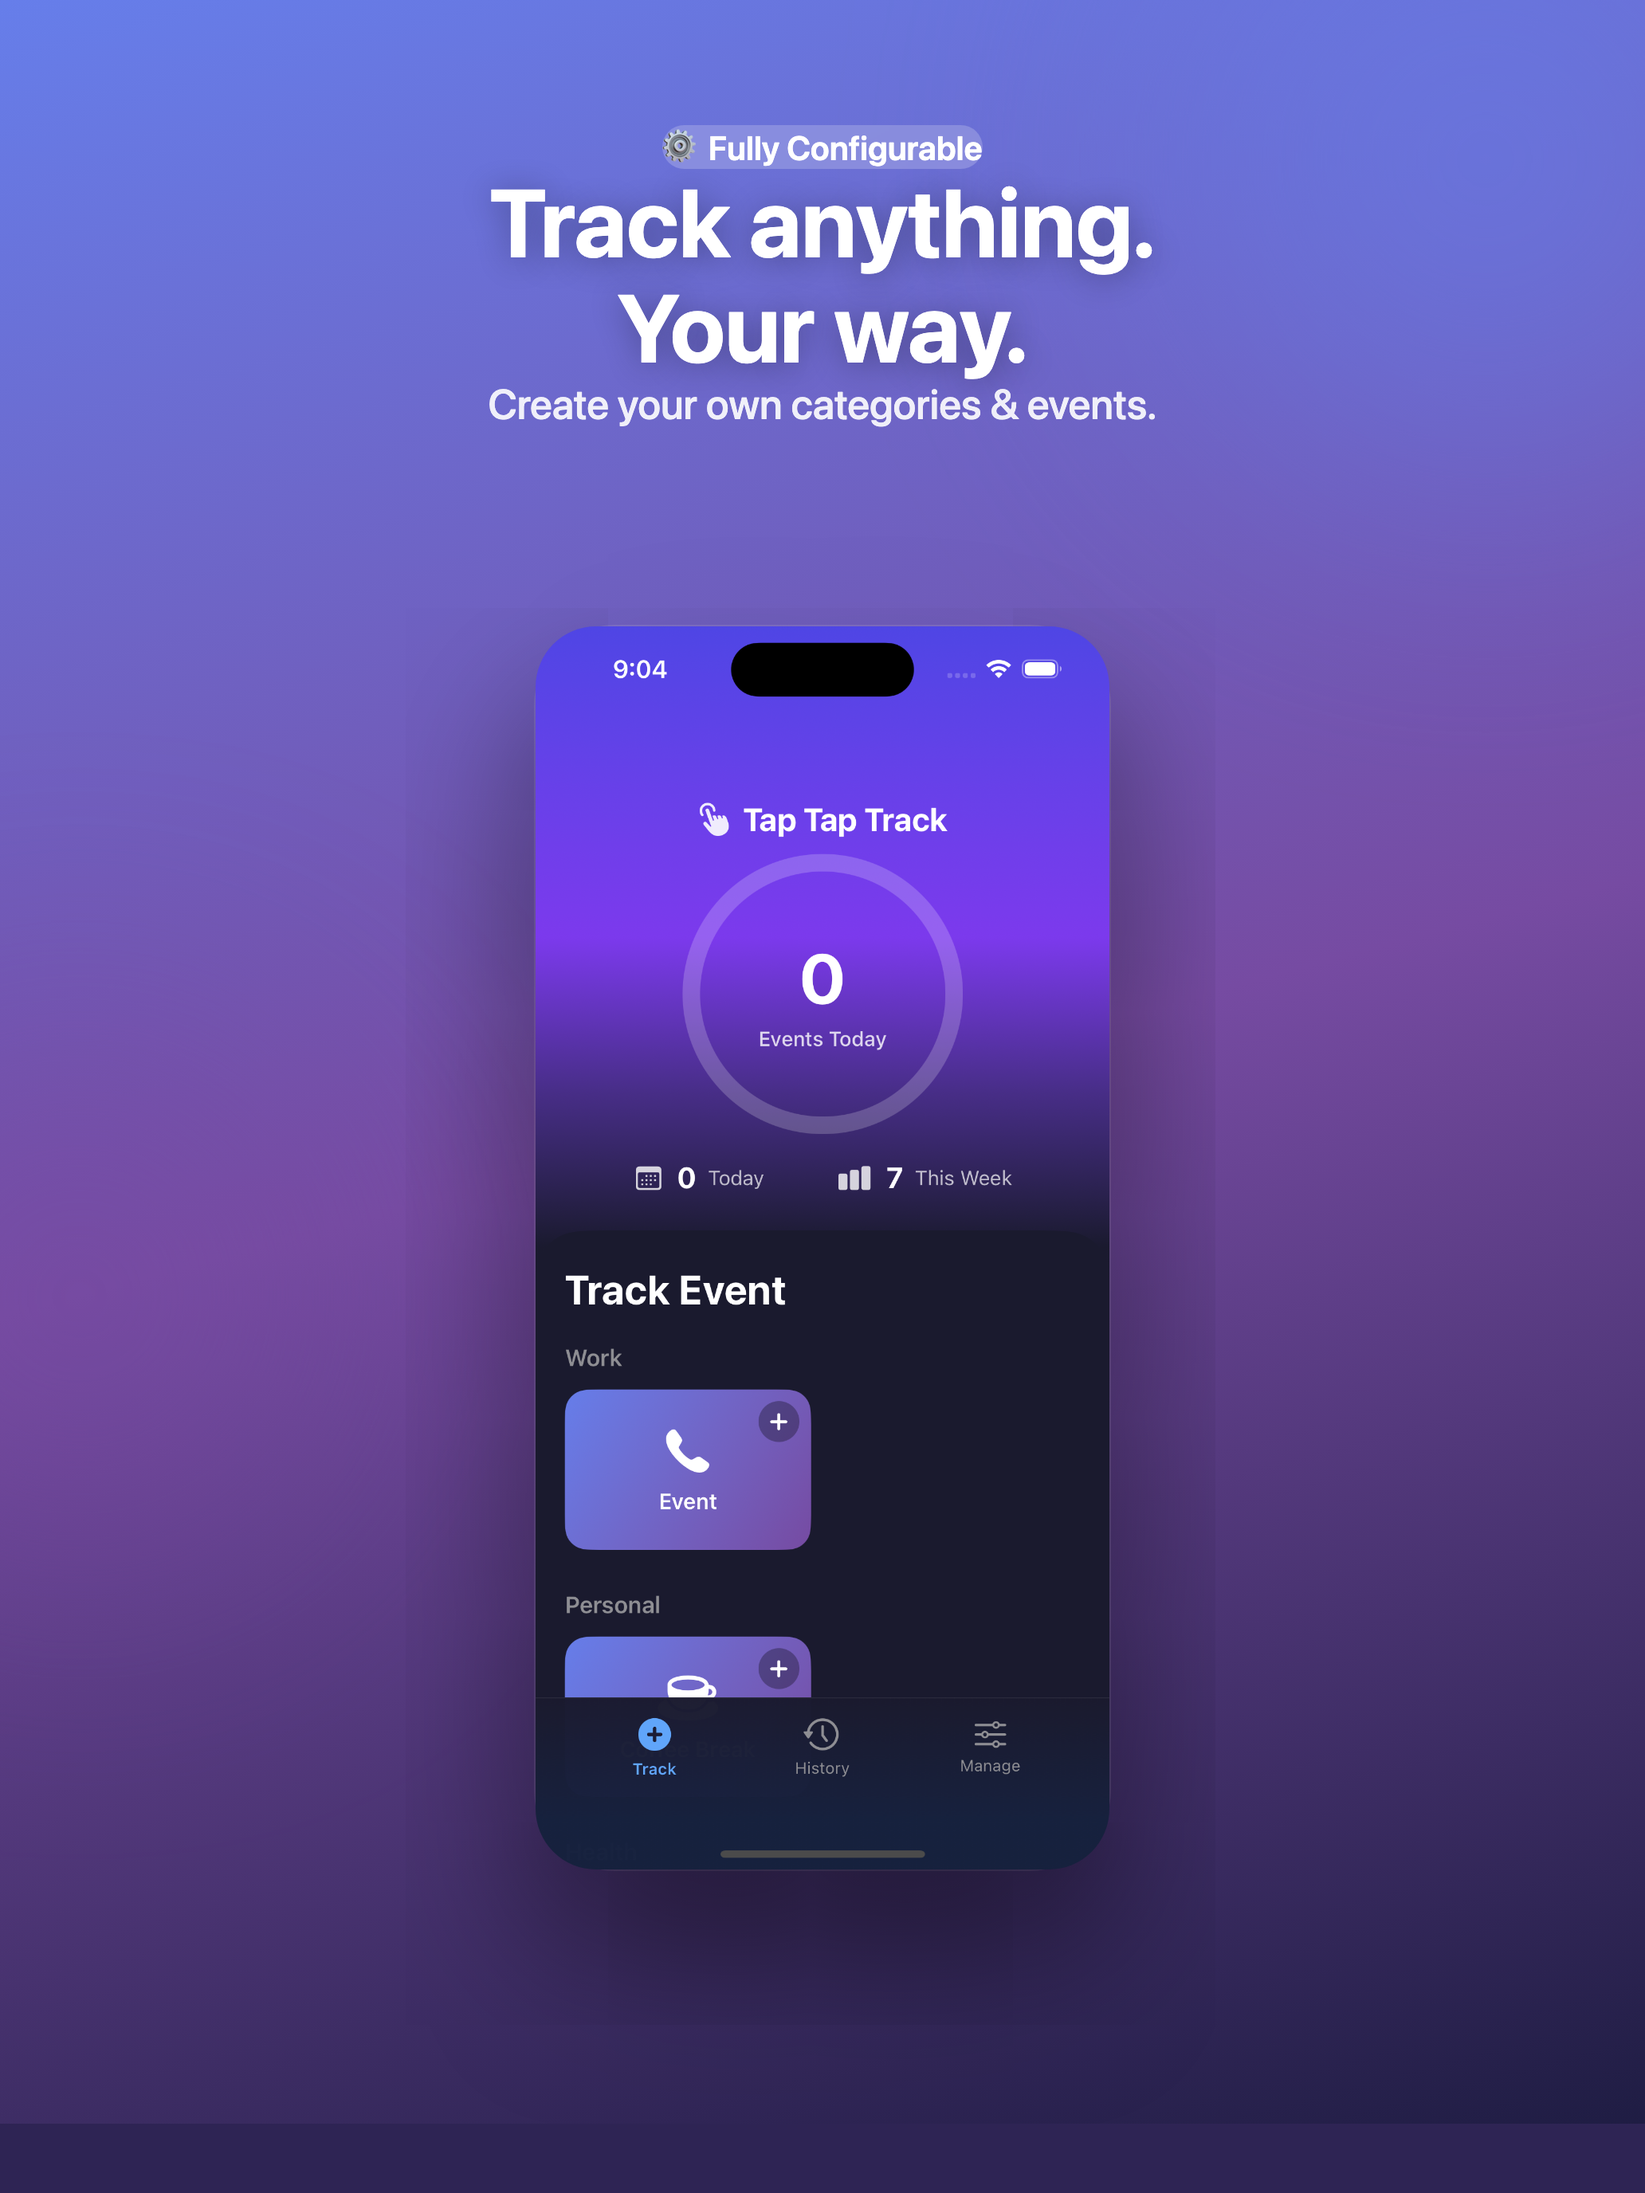
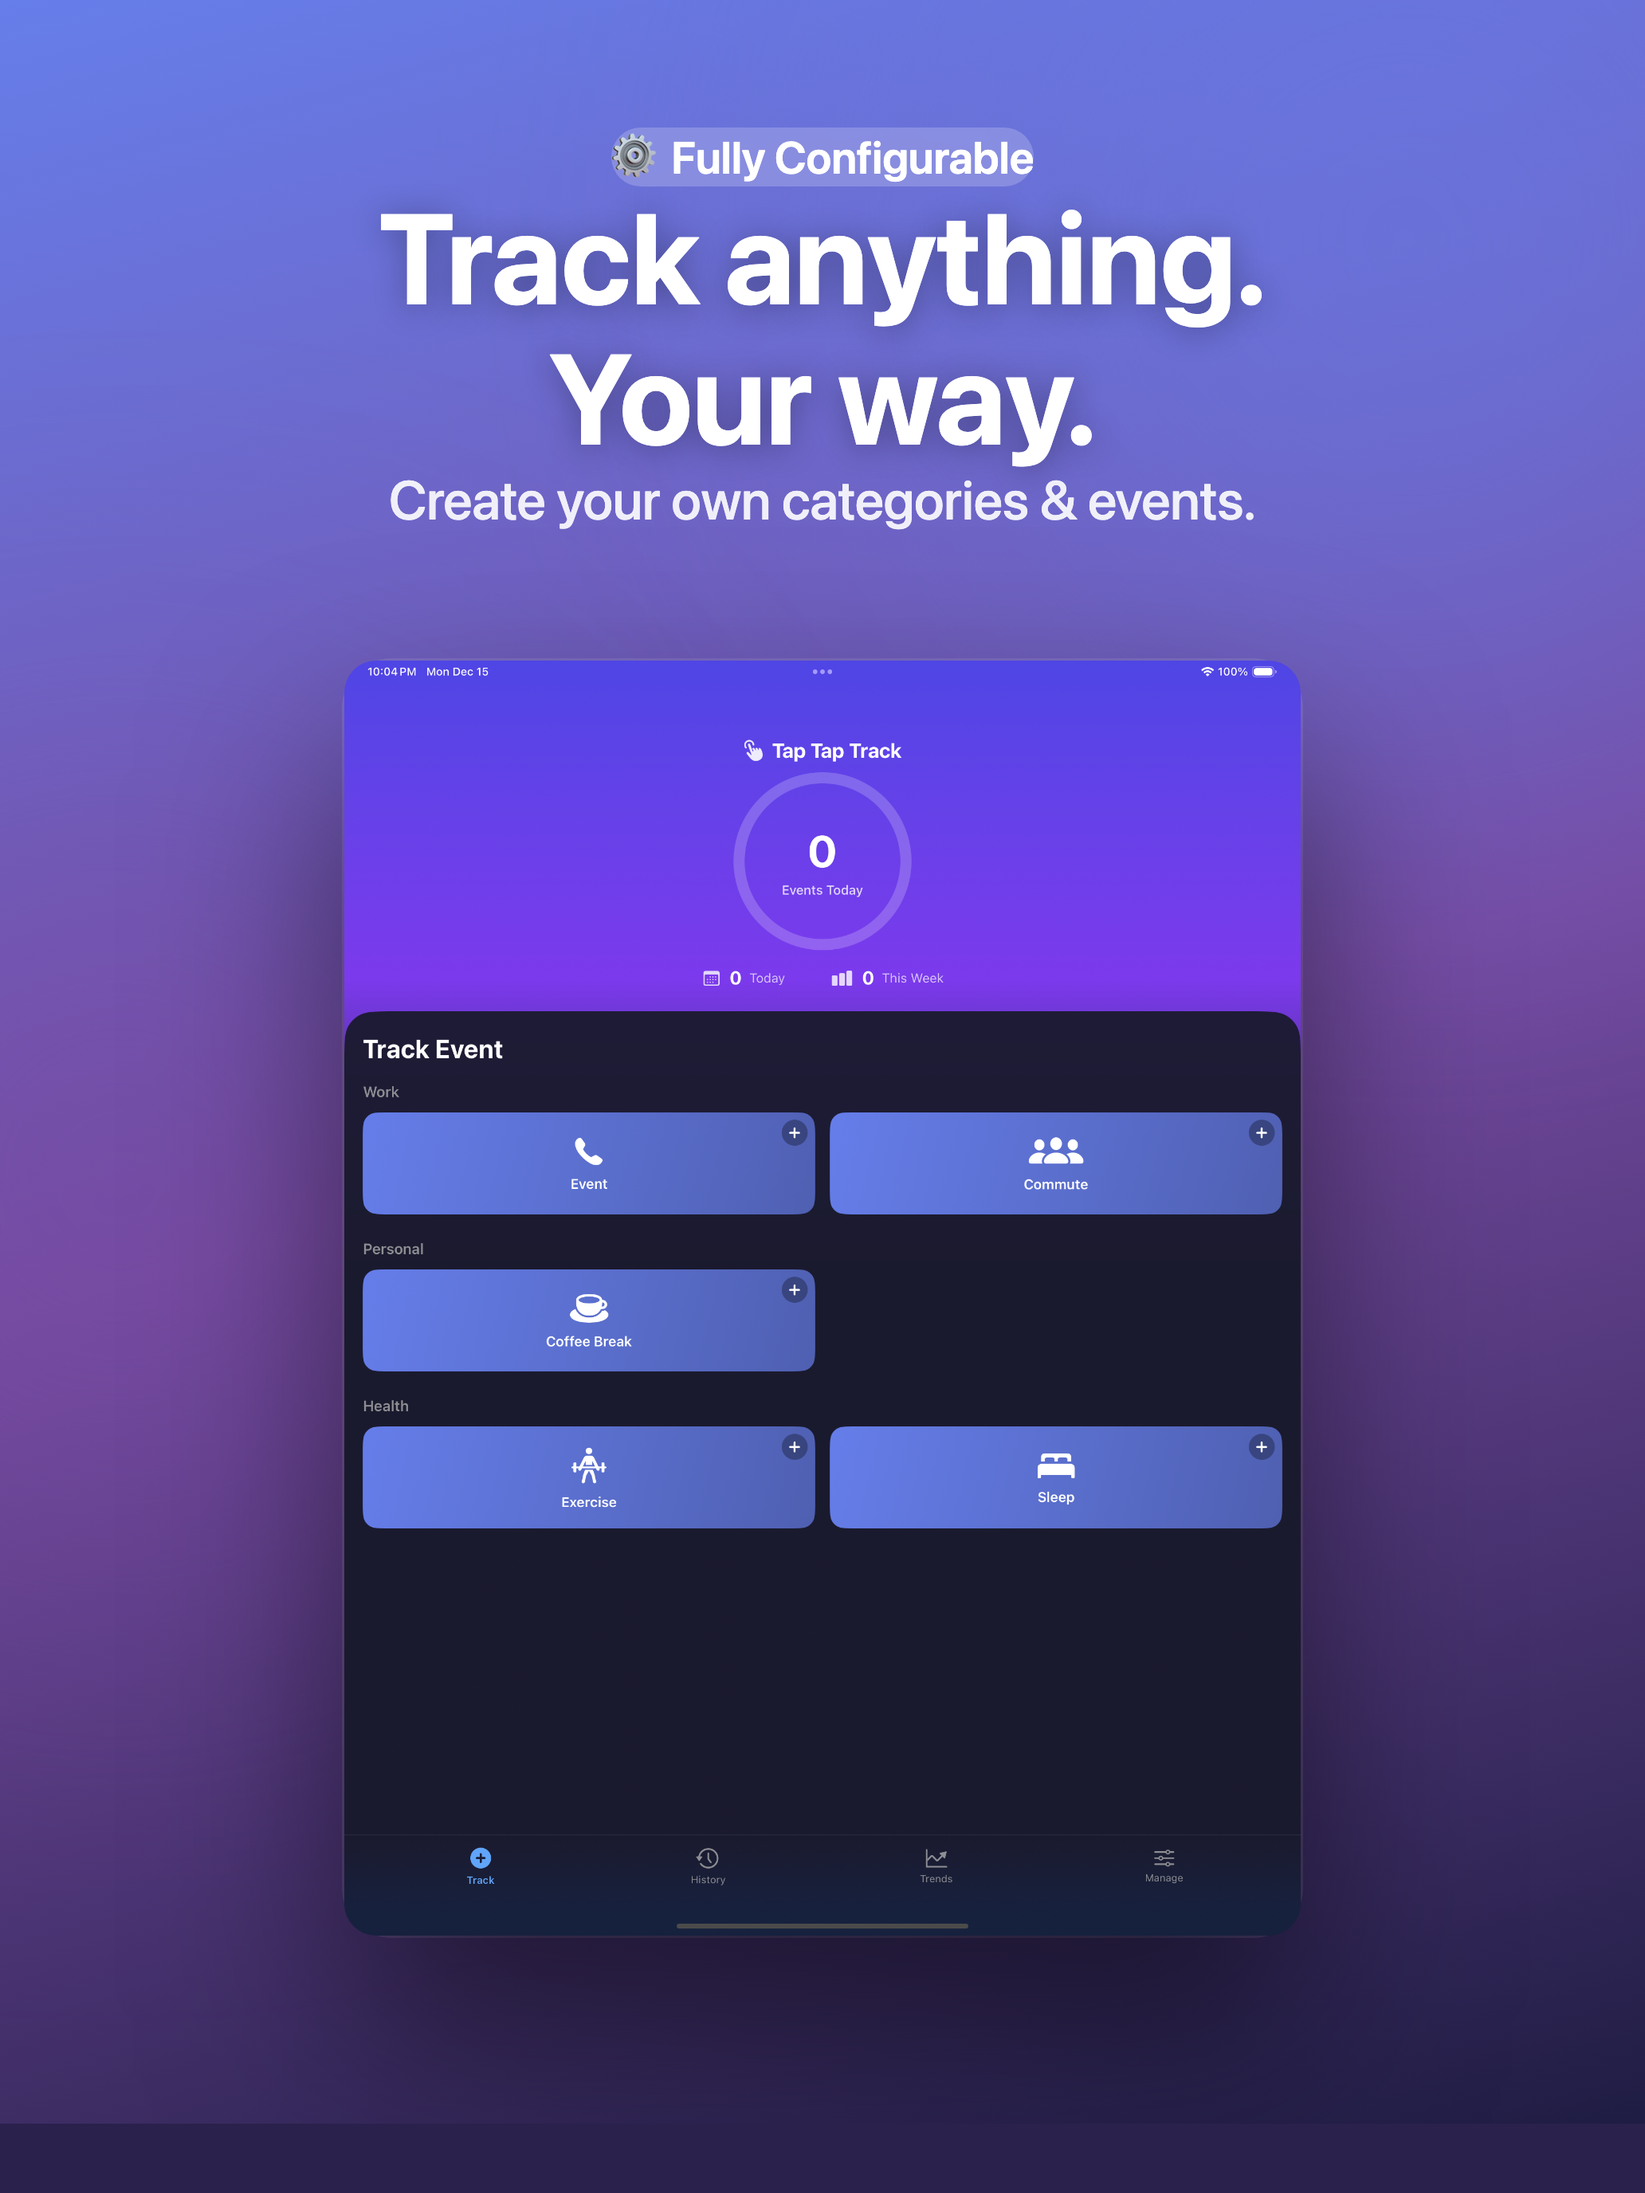
Update ipad screenshots for app store

diff --git a/website/app-store-materials/ipad/screenshot-1.html b/website/app-store-materials/ipad/screenshot-1.html
@@ -1,0 +1,151 @@
+<!DOCTYPE html>
+<html lang="en">
+<head>
+    <meta charset="UTF-8">
+    <meta name="viewport" content="width=2064, height=2752">
+    <title>iPad Screenshot 1 - One-Tap Tracking</title>
+    <link rel="preconnect" href="https://fonts.googleapis.com">
+    <link rel="preconnect" href="https://fonts.gstatic.com" crossorigin>
+    <link href="https://fonts.googleapis.com/css2?family=SF+Pro+Display:wght@400;500;600;700;800&display=swap" rel="stylesheet">
+    <style>
+        * {
+            box-sizing: border-box;
+            margin: 0;
+            padding: 0;
+        }
+        
+        html, body {
+            width: 2064px;
+            height: 2752px;
+            overflow: hidden;
+        }
+        
+        body {
+            font-family: -apple-system, BlinkMacSystemFont, 'SF Pro Display', 'Segoe UI', sans-serif;
+            color: white;
+        }
+        
+        .promo-slide {
+            width: 2064px;
+            height: 2752px;
+            background: linear-gradient(165deg, #667eea 0%, #764ba2 50%, #1a1a3e 100%);
+            display: flex;
+            flex-direction: column;
+            align-items: center;
+            justify-content: flex-start;
+            padding: 200px 150px;
+            position: relative;
+            overflow: hidden;
+        }
+        
+        .bg-blur-circle {
+            position: absolute;
+            border-radius: 50%;
+            filter: blur(300px);
+            opacity: 0.5;
+        }
+        
+        .blur-1 {
+            width: 1200px;
+            height: 1200px;
+            background: #667eea;
+            top: -300px;
+            right: -300px;
+        }
+        
+        .blur-2 {
+            width: 900px;
+            height: 900px;
+            background: #764ba2;
+            bottom: 30%;
+            left: -300px;
+        }
+        
+        .promo-headline {
+            text-align: center;
+            z-index: 2;
+            margin-bottom: 120px;
+        }
+        
+        .promo-badge {
+            display: inline-flex;
+            align-items: center;
+            gap: 20px;
+            background: rgba(255,255,255,0.2);
+            backdrop-filter: blur(20px);
+            padding: 30px 60px;
+            border-radius: 100px;
+            font-size: 56px;
+            font-weight: 600;
+            margin-bottom: 60px;
+        }
+        
+        .promo-headline h2 {
+            font-size: 160px;
+            font-weight: 700;
+            line-height: 1.1;
+            margin-bottom: 40px;
+            text-shadow: 0 4px 40px rgba(0,0,0,0.3);
+        }
+        
+        .promo-headline p {
+            font-size: 68px;
+            opacity: 0.9;
+            font-weight: 500;
+        }
+        
+        .ipad-frame {
+            flex: 1;
+            display: flex;
+            align-items: center;
+            justify-content: center;
+            z-index: 1;
+            width: 100%;
+        }
+        
+        .ipad-device {
+            width: 1200px;
+            background: linear-gradient(145deg, #2a2a3e 0%, #1a1a2e 100%);
+            border-radius: 60px;
+            padding: 30px;
+            box-shadow: 
+                0 120px 240px rgba(0,0,0,0.5),
+                0 0 0 3px rgba(255,255,255,0.1),
+                inset 0 3px 0 rgba(255,255,255,0.1);
+        }
+        
+        .ipad-screen {
+            border-radius: 40px;
+            overflow: hidden;
+        }
+        
+        .ipad-screen img {
+            width: 100%;
+            display: block;
+        }
+    </style>
+</head>
+<body>
+    <div class="promo-slide">
+        <div class="bg-blur-circle blur-1"></div>
+        <div class="bg-blur-circle blur-2"></div>
+        
+        <div class="promo-headline">
+            <div class="promo-badge">
+                <span>⚙</span>
+                <span>Fully Configurable</span>
+            </div>
+            <h2>Track anything.<br>Your way.</h2>
+            <p>Create your own categories & events.</p>
+        </div>
+        
+        <div class="ipad-frame">
+            <div class="ipad-device">
+                <div class="ipad-screen">
+                    <img src="../../images/screenshot-ipad-track.png" alt="Track screen">
+                </div>
+            </div>
+        </div>
+    </div>
+</body>
+</html>

diff --git a/website/app-store-materials/ipad/screenshot-2.html b/website/app-store-materials/ipad/screenshot-2.html
@@ -1,0 +1,151 @@
+<!DOCTYPE html>
+<html lang="en">
+<head>
+    <meta charset="UTF-8">
+    <meta name="viewport" content="width=2064, height=2752">
+    <title>iPad Screenshot 2 - Custom Categories</title>
+    <link rel="preconnect" href="https://fonts.googleapis.com">
+    <link rel="preconnect" href="https://fonts.gstatic.com" crossorigin>
+    <link href="https://fonts.googleapis.com/css2?family=SF+Pro+Display:wght@400;500;600;700;800&display=swap" rel="stylesheet">
+    <style>
+        * {
+            box-sizing: border-box;
+            margin: 0;
+            padding: 0;
+        }
+        
+        html, body {
+            width: 2064px;
+            height: 2752px;
+            overflow: hidden;
+        }
+        
+        body {
+            font-family: -apple-system, BlinkMacSystemFont, 'SF Pro Display', 'Segoe UI', sans-serif;
+            color: white;
+        }
+        
+        .promo-slide {
+            width: 2064px;
+            height: 2752px;
+            background: linear-gradient(165deg, #60a5fa 0%, #667eea 50%, #1a1a3e 100%);
+            display: flex;
+            flex-direction: column;
+            align-items: center;
+            justify-content: flex-start;
+            padding: 200px 150px;
+            position: relative;
+            overflow: hidden;
+        }
+        
+        .bg-blur-circle {
+            position: absolute;
+            border-radius: 50%;
+            filter: blur(300px);
+            opacity: 0.5;
+        }
+        
+        .blur-1 {
+            width: 1200px;
+            height: 1200px;
+            background: #60a5fa;
+            top: -300px;
+            right: -300px;
+        }
+        
+        .blur-2 {
+            width: 900px;
+            height: 900px;
+            background: #667eea;
+            bottom: 30%;
+            left: -300px;
+        }
+        
+        .promo-headline {
+            text-align: center;
+            z-index: 2;
+            margin-bottom: 120px;
+        }
+        
+        .promo-badge {
+            display: inline-flex;
+            align-items: center;
+            gap: 20px;
+            background: rgba(255,255,255,0.2);
+            backdrop-filter: blur(20px);
+            padding: 30px 60px;
+            border-radius: 100px;
+            font-size: 56px;
+            font-weight: 600;
+            margin-bottom: 60px;
+        }
+        
+        .promo-headline h2 {
+            font-size: 160px;
+            font-weight: 700;
+            line-height: 1.1;
+            margin-bottom: 40px;
+            text-shadow: 0 4px 40px rgba(0,0,0,0.3);
+        }
+        
+        .promo-headline p {
+            font-size: 68px;
+            opacity: 0.9;
+            font-weight: 500;
+        }
+        
+        .ipad-frame {
+            flex: 1;
+            display: flex;
+            align-items: center;
+            justify-content: center;
+            z-index: 1;
+            width: 100%;
+        }
+        
+        .ipad-device {
+            width: 1200px;
+            background: linear-gradient(145deg, #2a2a3e 0%, #1a1a2e 100%);
+            border-radius: 60px;
+            padding: 30px;
+            box-shadow: 
+                0 120px 240px rgba(0,0,0,0.5),
+                0 0 0 3px rgba(255,255,255,0.1),
+                inset 0 3px 0 rgba(255,255,255,0.1);
+        }
+        
+        .ipad-screen {
+            border-radius: 40px;
+            overflow: hidden;
+        }
+        
+        .ipad-screen img {
+            width: 100%;
+            display: block;
+        }
+    </style>
+</head>
+<body>
+    <div class="promo-slide">
+        <div class="bg-blur-circle blur-1"></div>
+        <div class="bg-blur-circle blur-2"></div>
+        
+        <div class="promo-headline">
+            <div class="promo-badge">
+                <span>📁</span>
+                <span>Customizable</span>
+            </div>
+            <h2>Create your<br>own categories</h2>
+            <p>Add, rename, or remove anytime</p>
+        </div>
+        
+        <div class="ipad-frame">
+            <div class="ipad-device">
+                <div class="ipad-screen">
+                    <img src="../../images/screenshot-ipad-manage.png" alt="Manage categories">
+                </div>
+            </div>
+        </div>
+    </div>
+</body>
+</html>
